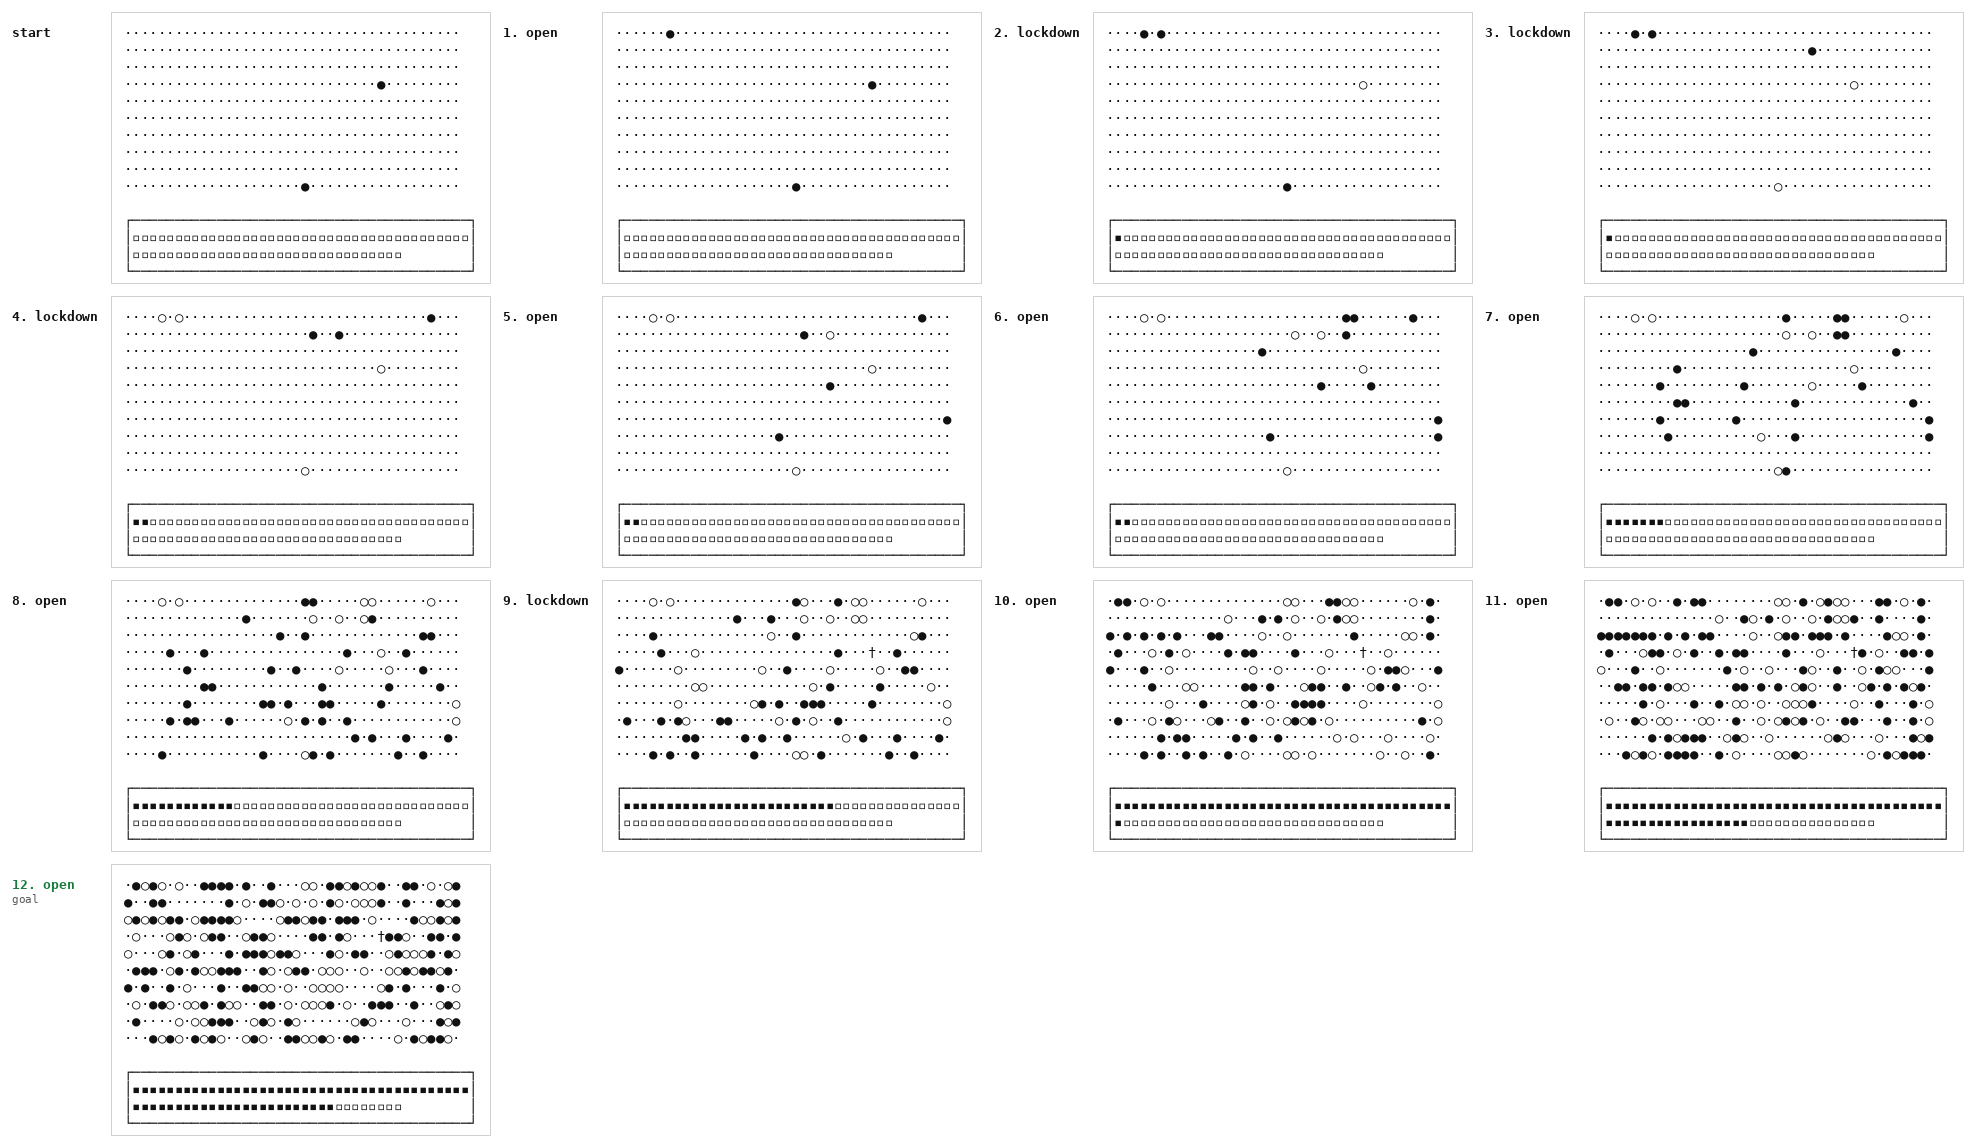
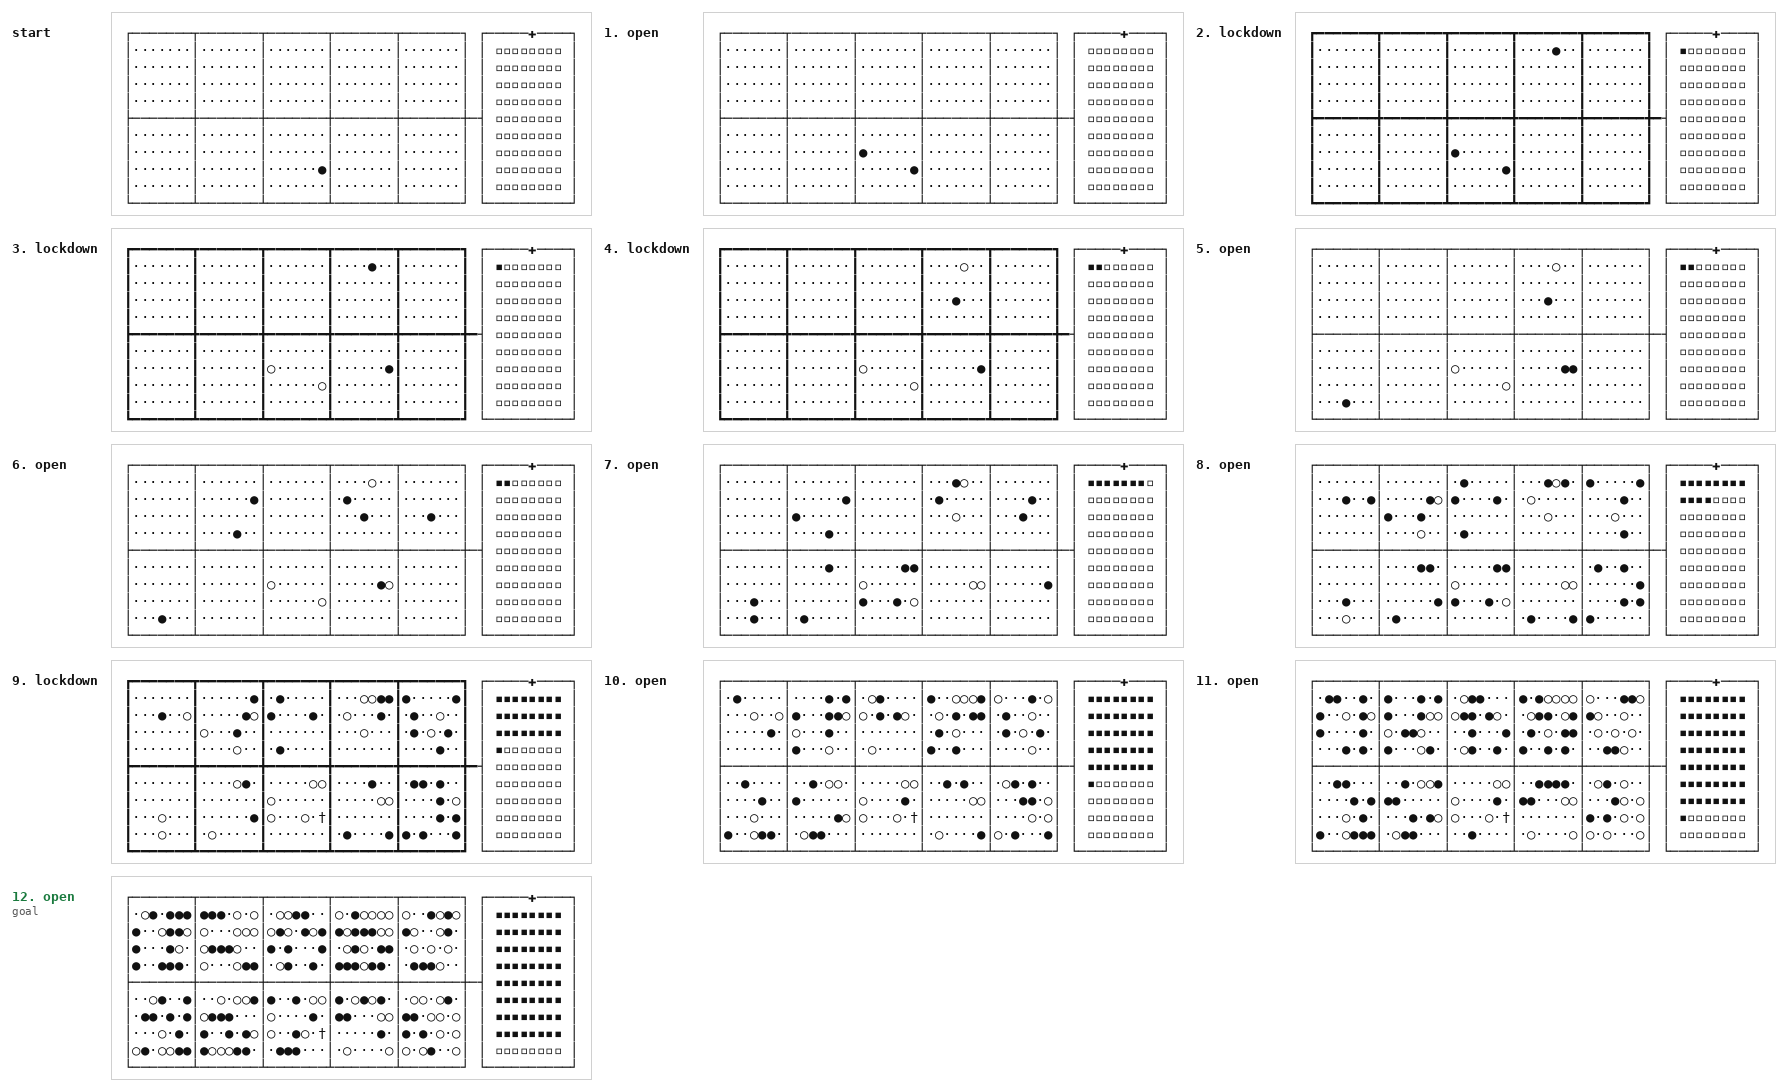
Draw the epidemic as a town map with its streets and hospital
The town is blocks of homes with streets between them, drawn by the level
in force: solid open, dashed under distancing, a heavy cordon under
lockdown. The hospital is a building at the end of the town's road with a
cross on its roof and its beds inside.

Claude-Session: https://claude.ai/code/session_01CbUM6vVu3Q3wBSzyXUJpxb

diff --git a/planiverse/environments/operational/epidemic/environment.py b/planiverse/environments/operational/epidemic/environment.py
@@ -47,14 +47,23 @@ DAYS = 7
 #: What the generator draws when not told.
 POPULATIONS = (5000, 8000, 10000)
 WEEKS = (10, 12, 14)
-#: A picture's town: this many characters wide and high, each standing for an equal share of
-#: the people, in an order fixed once so that a character only ever moves on through
-#: susceptible, infected, recovered and dead as the weeks go by.
-TOWN = (40, 10)
-_ORDER = list(range(TOWN[0] * TOWN[1]))
+#: A picture's town: blocks of homes, this many across and down, each this many characters
+#: wide and high, with streets between them. Every character is an equal share of the people,
+#: in an order fixed once so that a character only ever moves on through susceptible,
+#: infected, recovered and dead as the weeks go by.
+BLOCKS, BLOCK = (5, 2), (7, 4)
+_HOMES = [(1 + bx * (BLOCK[0] + 1) + x, 1 + by * (BLOCK[1] + 1) + y)
+          for by in range(BLOCKS[1]) for bx in range(BLOCKS[0])
+          for y in range(BLOCK[1]) for x in range(BLOCK[0])]
+_ORDER = list(range(len(_HOMES)))
 random.Random(0).shuffle(_ORDER)
-#: The hospital ward is at most this many marks wide, one mark for one or a few beds.
-WARD = 40
+#: The streets by the level in force: solid while the town is open, dashed under distancing,
+#: and heavy, a cordon, under lockdown. Each turns the town's joined light lines into its own.
+STREETS = {"open": {}, "distancing": {"─": "╌", "│": "╎"},
+           "lockdown": dict(zip("─│┌┐└┘├┤┬┴┼", "━┃┏┓┗┛┣┫┳┻╋"))}
+#: The hospital: a building beside the town with a cross on its roof, its beds inside this
+#: many to a row, one mark for one or a few beds.
+WARD = 8
 
 
 def _covasim():
@@ -139,34 +148,44 @@ class EpidemicState:
         return self.depth < other.depth
 
     def __str__(self):
-        """The town as a block of characters, each an equal share of the people (· still
-        susceptible, ● infected, ○ recovered, † dead), the hospital as a ward of beds (▪
-        occupied, ▫ empty)."""
-        width, height = TOWN
-        cells = width * height
+        """The town as a map: blocks of homes, each character an equal share of the people
+        (· still susceptible, ● infected, ○ recovered, † dead), with streets between them drawn
+        by the level in force (solid open, dashed distancing, heavy for a lockdown); and beside
+        it the hospital, a building with ✚ on its roof joined to the streets, its beds inside
+        (▪ taken, ▫ free)."""
+        width = BLOCKS[0] * (BLOCK[0] + 1) + 1
+        height = BLOCKS[1] * (BLOCK[1] + 1) + 1
+        cells = len(_HOMES)
         people = self.population or cells
         per = people / cells
-        infected, recovered = self.exposed, self.recovered
         dead = min(cells, math.ceil(self.deaths / per))
-        ill = min(cells - dead, math.ceil(infected / per))
-        well = min(cells - dead - ill, round(recovered / per))
+        ill = min(cells - dead, math.ceil(self.exposed / per))
+        well = min(cells - dead - ill, round(self.recovered / per))
         recovered_to, affected = dead + well, dead + well + ill
-        town = Canvas(width, height)
-        for k, cell in enumerate(_ORDER):
-            char = "†" if k < dead else "○" if k < recovered_to else "●" if k < affected else "·"
-            town.put(cell % width, cell // width, char)
-        lines = [str(town), ""]
+        style = STREETS[self.schedule[-1] if self.schedule else "open"]
+        rows = height - 2
         beds = max(self.capacity, 1)
-        each = max(1, math.ceil(beds / (2 * WARD)))
+        each = max(1, math.ceil(beds / (WARD * rows)))
         marks = math.ceil(beds / each)
         full = min(marks, math.ceil(self.load / each))
-        rows = math.ceil(marks / WARD)
-        ward = Canvas(WARD + 2, rows + 2)
-        ward.rect(0, 0, WARD + 1, rows + 1)
+        left = width + 1
+        canvas = Canvas(left + WARD + 4, height)
+        for y in range(0, height, BLOCK[1] + 1):
+            canvas.hline(0, width - 1, y)
+        for x in range(0, width, BLOCK[0] + 1):
+            canvas.vline(x, 0, height - 1)
+        canvas.rect(left, 0, left + WARD + 3, height - 1)
+        canvas.hline(width - 1, left, height // 2)                   # the road to the hospital
+        for y in range(height):
+            for x in range(left):
+                canvas.put(x, y, style.get(canvas.get(x, y), canvas.get(x, y)))
+        for k, cell in enumerate(_ORDER):
+            char = "†" if k < dead else "○" if k < recovered_to else "●" if k < affected else "·"
+            canvas.put(*_HOMES[cell], char)
+        canvas.put(left + (WARD + 3) // 2 + 1, 0, "✚")
         for k in range(marks):
-            ward.put(1 + k % WARD, 1 + k // WARD, "▪" if k < full else "▫")
-        lines.append(str(ward))
-        return "\n".join(lines)
+            canvas.put(left + 2 + k % WARD, 1 + k // WARD, "▪" if k < full else "▫")
+        return str(canvas)
 
     def __repr__(self):
         return f"<EpidemicState(week={self.week}, deaths={self.deaths}, peak={self.peak})>"

diff --git a/tests/test_operational_four.py b/tests/test_operational_four.py
@@ -100,9 +100,12 @@ def test_an_epidemic_state_draws_the_town_and_the_ward(epidemic):
     state, _ = epidemic.reset()
     after = epidemic.__advance__(state, "open")
     inst = epidemic.instance
-    assert_a_picture(epidemic, state, after, ["·", "▫"])
-    town = str(state).splitlines()[0:10]
-    assert all(len(line) == 40 for line in town), "the town is forty characters by ten"
+    assert_a_picture(epidemic, state, after, ["·", "▫", "✚", "┼"])
+    from planiverse.environments.operational.epidemic.environment import _HOMES
+    assert sum(str(state).count(c) for c in "·●○†") == len(_HOMES), "a mark for every home"
+    locked = epidemic.__advance__(state, "lockdown")
+    assert "╋" in str(locked) and "┼" not in str(locked).split("✚")[0], "a lockdown cordons it"
+    assert "╌" in str(epidemic.__advance__(state, "distancing"))
 
 
 # ------------------------------------------------------------------------------- traffic

diff --git a/docs/environments/epidemic.md b/docs/environments/epidemic.md
@@ -125,10 +125,12 @@ which spends the whole budget on four lockdowns, three of them early.
 
 ![BFWS solving epidemic instance 0](../renders/epidemic.gif)
 
-Each frame is the state's picture. The town is a block of forty characters by ten, each standing for
-an equal share of the people, in an order fixed for the instance so that a character moves on from
-susceptible to infected to recovered or dead as the weeks go by. The
-hospital is a ward of beds against its capacity, one mark for a bed or for a few of them.
+Each frame is the state's picture, a map of the town. Its homes stand in ten blocks with streets
+between them, and every character is an equal share of the people, in an order fixed for the
+instance so that a character moves on from susceptible to infected to recovered or dead as the weeks
+go by. The streets show the level in force: solid while the town is open, dashed under distancing
+and heavy, a cordon, under lockdown. Beside the town, at the end of its road, is the hospital, a
+building with a cross on its roof and its beds inside, one mark for a bed or for a few of them.
 
 | Mark | Meaning |
 |---|---|
@@ -136,7 +138,11 @@ hospital is a ward of beds against its capacity, one mark for a bed or for a few
 | `●` | people infected now, incubating or infectious |
 | `○` | people recovered |
 | `†` | the dead |
-| `▪` `▫` | a hospital bed occupied, or empty |
+| `─ │ ┼` | the streets, the town open |
+| `╌ ╎` | the streets under distancing |
+| `━ ┃ ╋` | the streets cordoned, under lockdown |
+| `✚` | the hospital, on its roof |
+| `▪` `▫` | a hospital bed taken, or free |
 
 The same plan is also a [sheet](../renders/epidemic.png), every state on one figure, each
 captioned with the action that produced it and the goal marked where the plan ends. Both were
